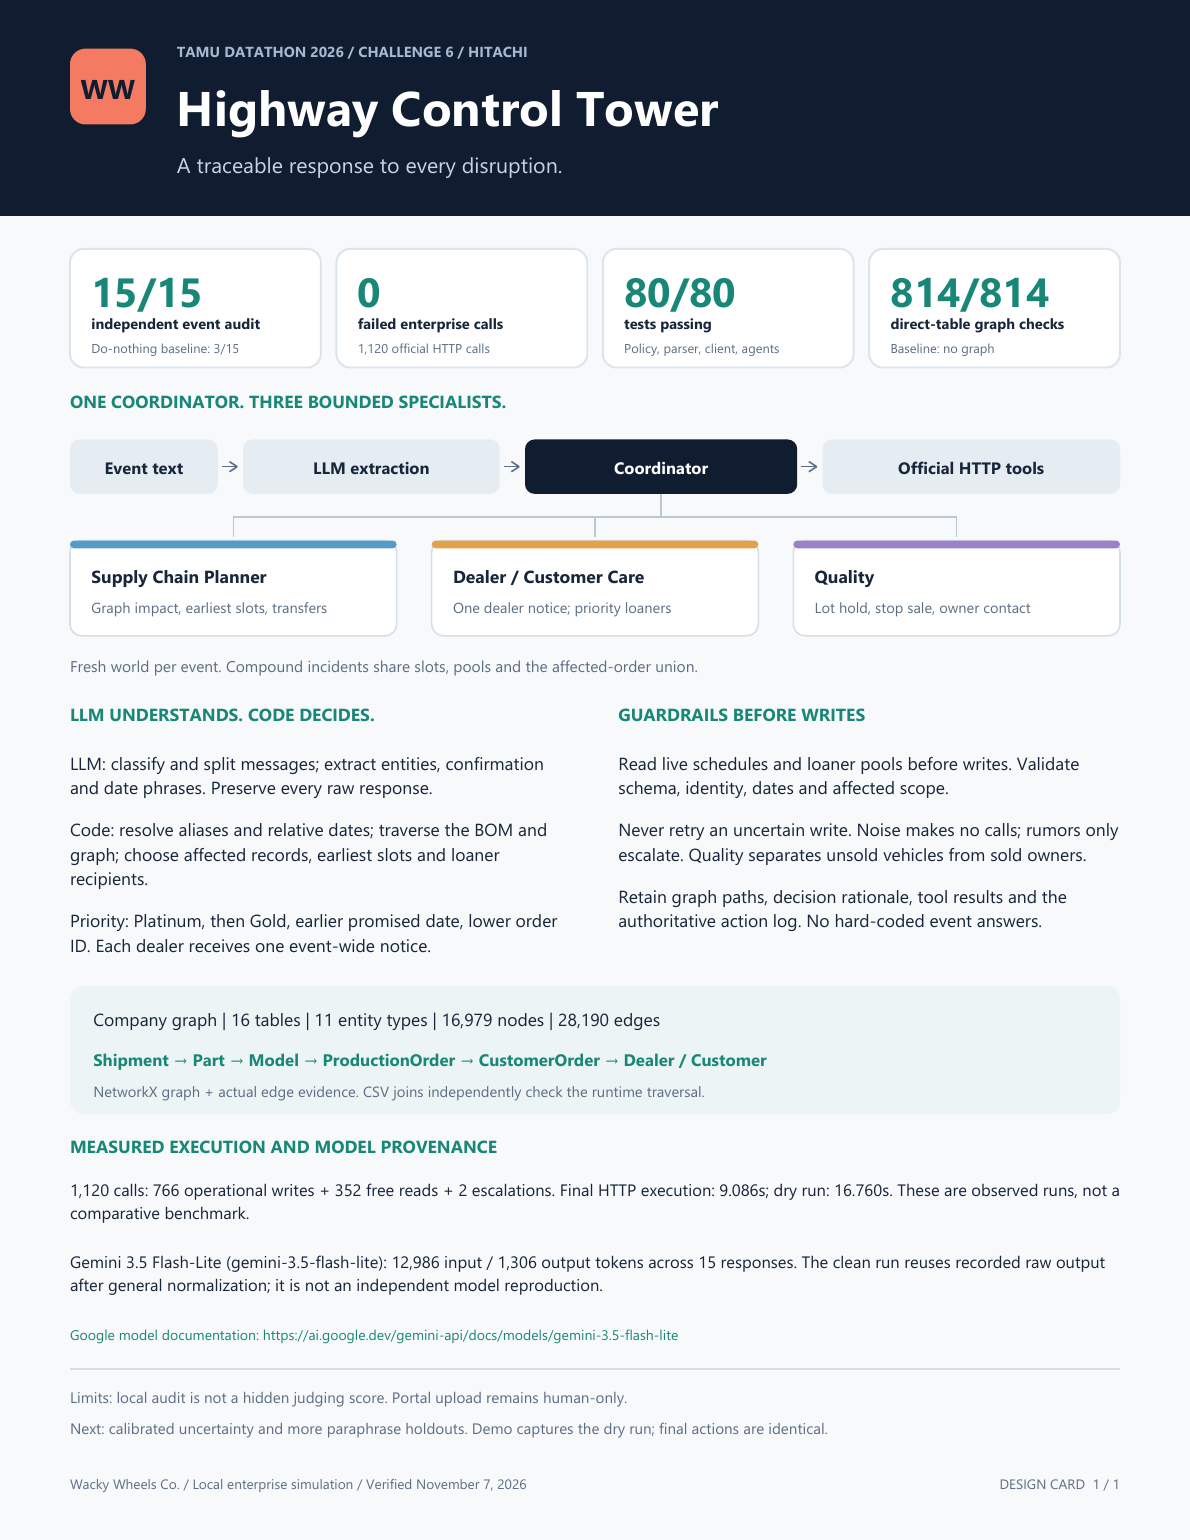
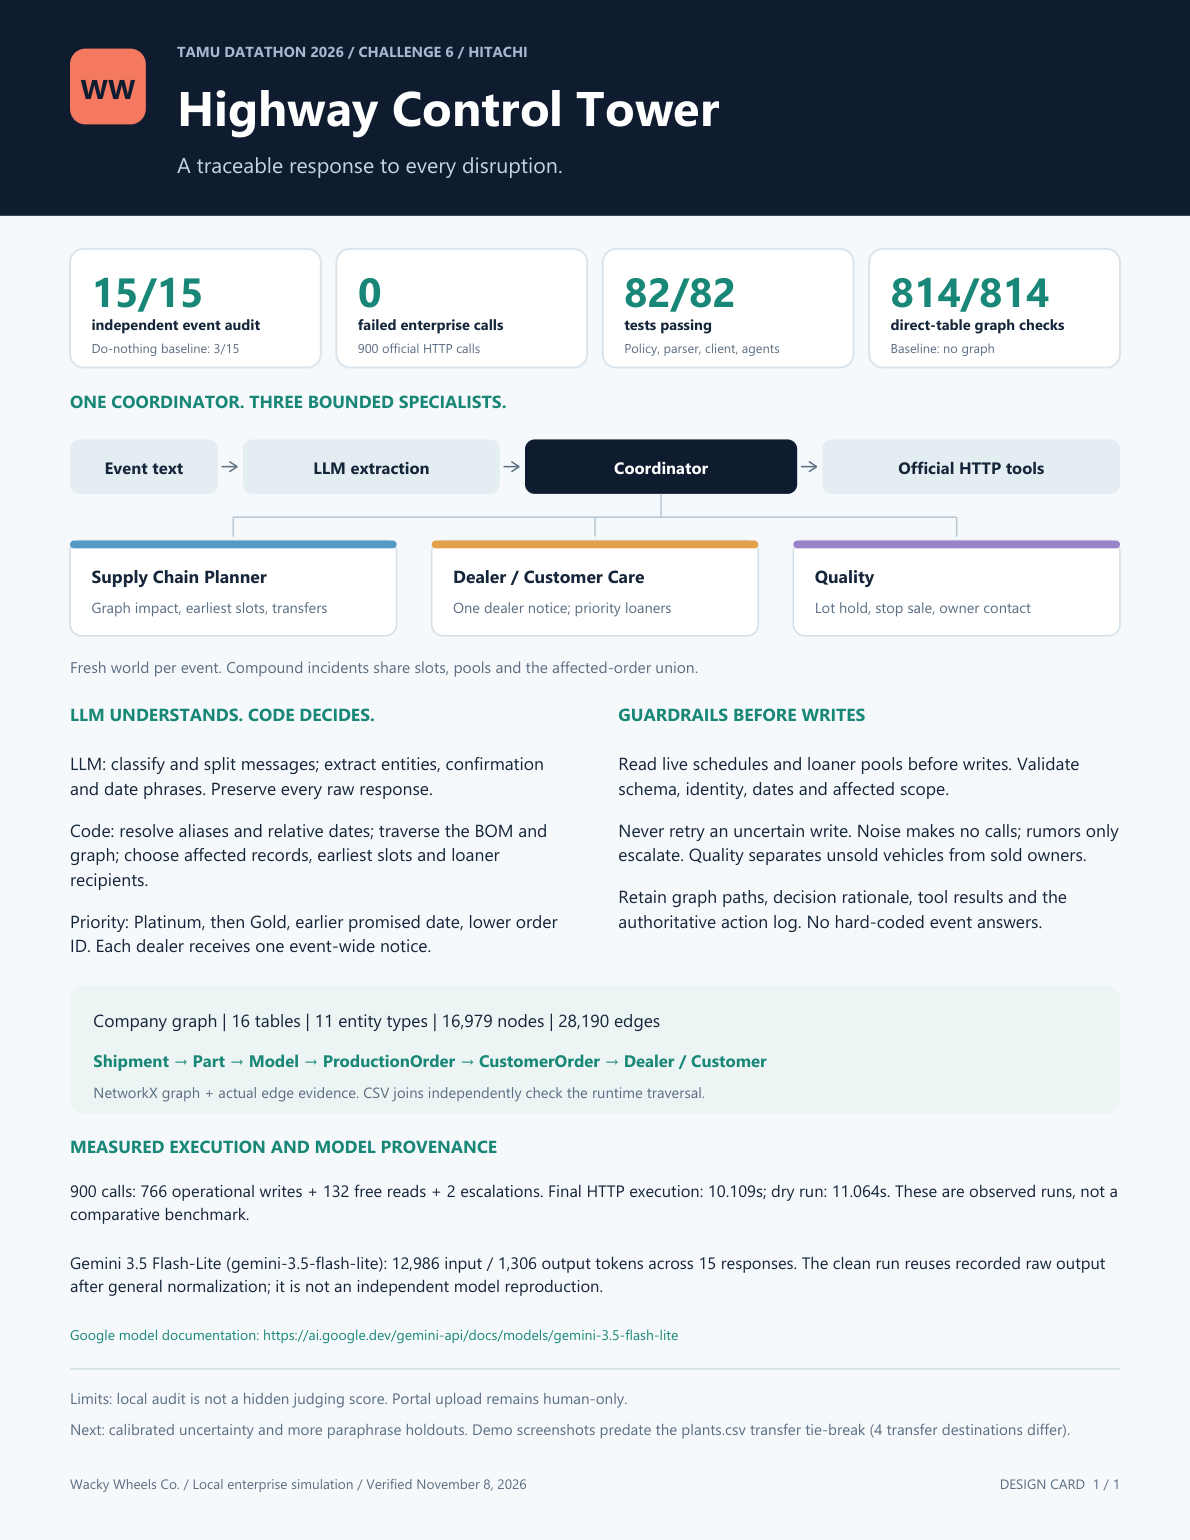
T17b6 Refresh design card and evaluation for 900-call verified run

diff --git a/docs/build_design.py b/docs/build_design.py
@@ -157,7 +157,7 @@ def build_pdf(summary, audit, graph, test_count, graph_checks):
 
     heading(c, "Measured execution and model provenance", 36, 199)
     text_block(c, f"<b>{summary['server_calls']:,} calls:</b> {summary['operational_writes']:,} operational writes + {summary['server_calls'] - summary['operational_writes'] - 2:,} free reads + 2 escalations. "
-               f"Final HTTP execution: <b>{summary['seconds_execution']:.3f}s</b>; dry run: 10.165s. These are observed runs, not a comparative benchmark.",
+               f"Final HTTP execution: <b>{summary['seconds_execution']:.3f}s</b>; dry run: 11.064s. These are observed runs, not a comparative benchmark.",
                36, 185, 540, 8.5, 11.7)
     text_block(c, f"<b>Gemini 3.5 Flash-Lite</b> ({summary['models'][0]}): {summary['llm_input_tokens']:,} input / "
                f"{summary['llm_output_tokens']:,} output tokens across 15 responses. The clean run reuses recorded raw output after general normalization; it is not an independent model reproduction.",
@@ -167,10 +167,10 @@ def build_pdf(summary, audit, graph, test_count, graph_checks):
     c.setStrokeColor(colors.HexColor("#d2dfe7"))
     c.line(36, 88, 576, 88)
     text_block(c, "<b>Limits:</b> local audit is not a hidden judging score. Portal upload remains human-only.", 36, 78, 540, 7.8, 10.5, MUTED)
-    text_block(c, "<b>Next:</b> calibrated uncertainty and more paraphrase holdouts. Demo captures the dry run; final actions are identical.", 36, 62, 540, 7.8, 10.5, MUTED)
+    text_block(c, "<b>Next:</b> calibrated uncertainty and more paraphrase holdouts. Demo screenshots predate the plants.csv transfer tie-break (4 transfer destinations differ).", 36, 62, 540, 7.8, 10.5, MUTED)
     c.setFont("WW", 7)
     c.setFillColor(MUTED)
-    c.drawString(36, 26, "Wacky Wheels Co. / Local enterprise simulation / Verified November 7, 2026")
+    c.drawString(36, 26, "Wacky Wheels Co. / Local enterprise simulation / Verified November 8, 2026")
     c.drawRightString(576, 26, "DESIGN CARD  1 / 1")
     c.showPage()
     c.save()
@@ -262,7 +262,7 @@ Read live schedules and loaner pools before writes. Validate exact tool argument
 | Official server calls | Zero calls, incomplete corrective work | {summary['server_calls']:,} calls, {summary['failed_calls']} failures |
 | Actions | Zero corrective writes | {summary['operational_writes']:,} writes + {summary['server_calls'] - summary['operational_writes'] - 2:,} free reads + 2 escalations |
 
-Final HTTP execution took {summary['seconds_execution']:.3f} seconds; the dry run took 10.165 seconds. These are observed run durations, not a comparative benchmark. The dry-run and final action logs are byte-for-byte identical.
+Final HTTP execution took {summary['seconds_execution']:.3f} seconds; the dry run took 11.064 seconds. These are observed run durations, not a comparative benchmark. The dry-run and final action logs are byte-for-byte identical.
 
 ## Model citation and efficiency
 

diff --git a/docs/design-card.md b/docs/design-card.md
@@ -4,7 +4,7 @@ TAMU Datathon 2026, Challenge 6: Hitachi Hack the Highway. A local control tower
 
 ## Architecture
 
-Event text -> Gemini extraction -> grounded coordinator -> three bounded specialists -> validated official HTTP tools. The Supply Chain Planner finds affected builds and earliest feasible slots or compatible transfers. Dealer Network / Customer Care unions affected orders, notifies each dealer once, and allocates loaners by tier, promised date and order ID. Quality holds lots, stops sale of unsold vehicles and contacts sold-vehicle owners. Every event gets a fresh world; compound incidents share slots and pools.
+Event text -> Gemini extraction -> grounded coordinator -> three bounded specialists -> validated official HTTP tools. The Supply Chain Planner finds affected builds and earliest feasible slots or compatible transfers (same-day ties in canonical plants.csv order). Dealer Network / Customer Care unions affected orders, notifies each dealer once, and allocates loaners by tier, promised date and order ID. Quality holds lots, stops sale of unsold vehicles and contacts sold-vehicle owners. Every event gets a fresh world; compound incidents share slots and pools.
 
 ## LLM versus deterministic code
 
@@ -19,12 +19,12 @@ Read live schedules and loaner pools before writes. Validate exact tool argument
 | Measure | Baseline | Recorded result |
 | --- | --- | --- |
 | Independent public-event audit | Do nothing: 3/15 | 15/15 |
-| Tests | No implemented policy/parser/client/agents | 80/80 |
+| Tests | No implemented policy/parser/client/agents | 82/82 |
 | Graph | No graph | 16 tables, 11 types, 16,979 nodes, 28,190 edges; 814/814 direct-table checks |
-| Official server calls | Zero calls, incomplete corrective work | 1,120 calls, 0 failures |
-| Actions | Zero corrective writes | 766 writes + 352 free reads + 2 escalations |
+| Official server calls | Zero calls, incomplete corrective work | 900 calls, 0 failures |
+| Actions | Zero corrective writes | 766 writes + 132 free reads + 2 escalations |
 
-Final HTTP execution took 9.086 seconds; the dry run took 16.760 seconds. These are observed run durations, not a comparative benchmark. The dry-run and final action logs are byte-for-byte identical.
+Final HTTP execution took 10.109 seconds; the dry run took 11.064 seconds. These are observed run durations, not a comparative benchmark. The dry-run and final action logs are byte-for-byte identical.
 
 ## Model citation and efficiency
 

diff --git a/docs/evaluation.md b/docs/evaluation.md
@@ -23,7 +23,7 @@ The actual `gemini-3.5-flash-lite` run produced all 15 event responses using 12,
 
 The final interpreted incidents were compared with every hand-reviewed row below. All plant, shipment, lot and date identities match. The confirmed compound event contains both incidents, the three brochure messages remain noise, and the two rumors remain escalation-only.
 
-The current dry-run official HTTP server completed 900 calls in 10.165 seconds with zero failures, and the independent audit passed 15/15 events. A second clean server run in `runs/submission` completed the same 900 calls in 9.584 seconds with zero failures and again passed 15/15, versus the 3/15 do-nothing baseline. It contains 766 operational writes, 132 free reads and two escalations. Both runs reuse the same recorded LLM output; they are fresh execution checks, not independent LLM reproductions. Both action logs are byte-for-byte identical.
+The current dry-run official HTTP server completed 900 calls in 11.064 seconds with zero failures, and the independent audit passed 15/15 events. A second clean server run in `runs/submission` completed the same 900 calls in 10.109 seconds with zero failures and again passed 15/15, versus the 3/15 do-nothing baseline. It contains 766 operational writes, 132 free reads and two escalations. Both runs reuse the same recorded LLM output; they are fresh execution checks, not independent LLM reproductions. Both action logs are byte-for-byte identical.
 
 **Revision (2026-11-08 00:40 CST).** Two policy refinements, measured against the previous run (`runs/submission-v1`, 1,120 calls):
 
